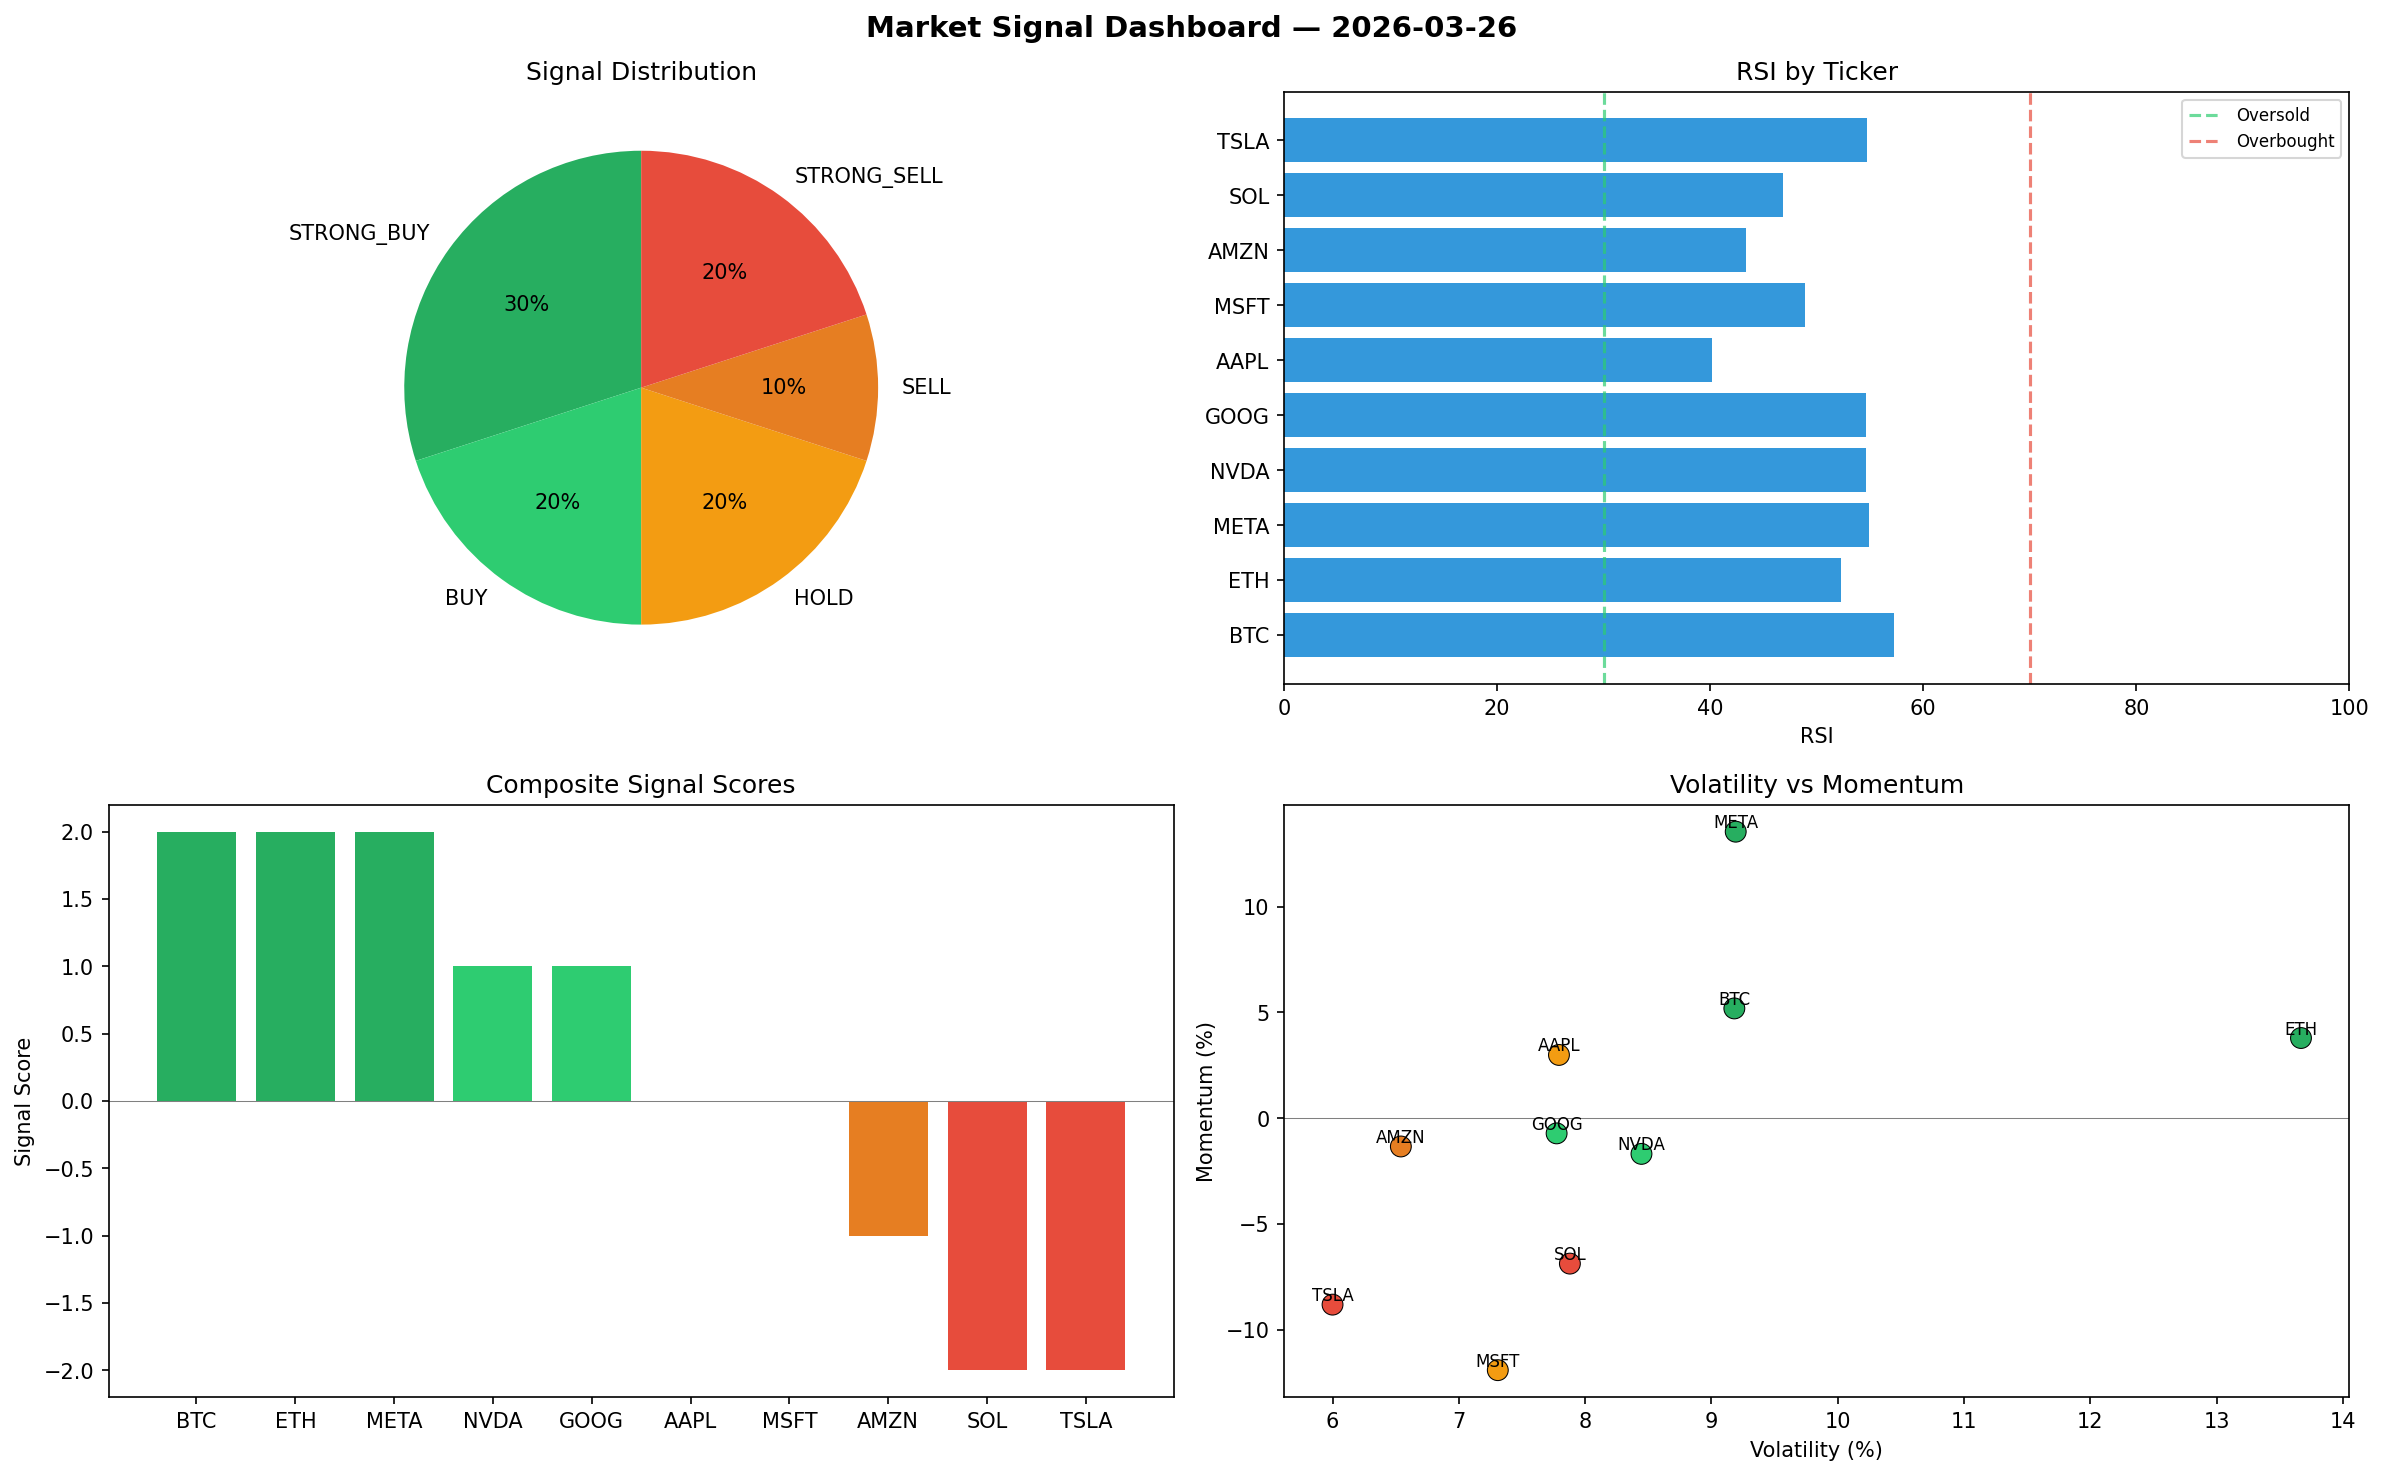
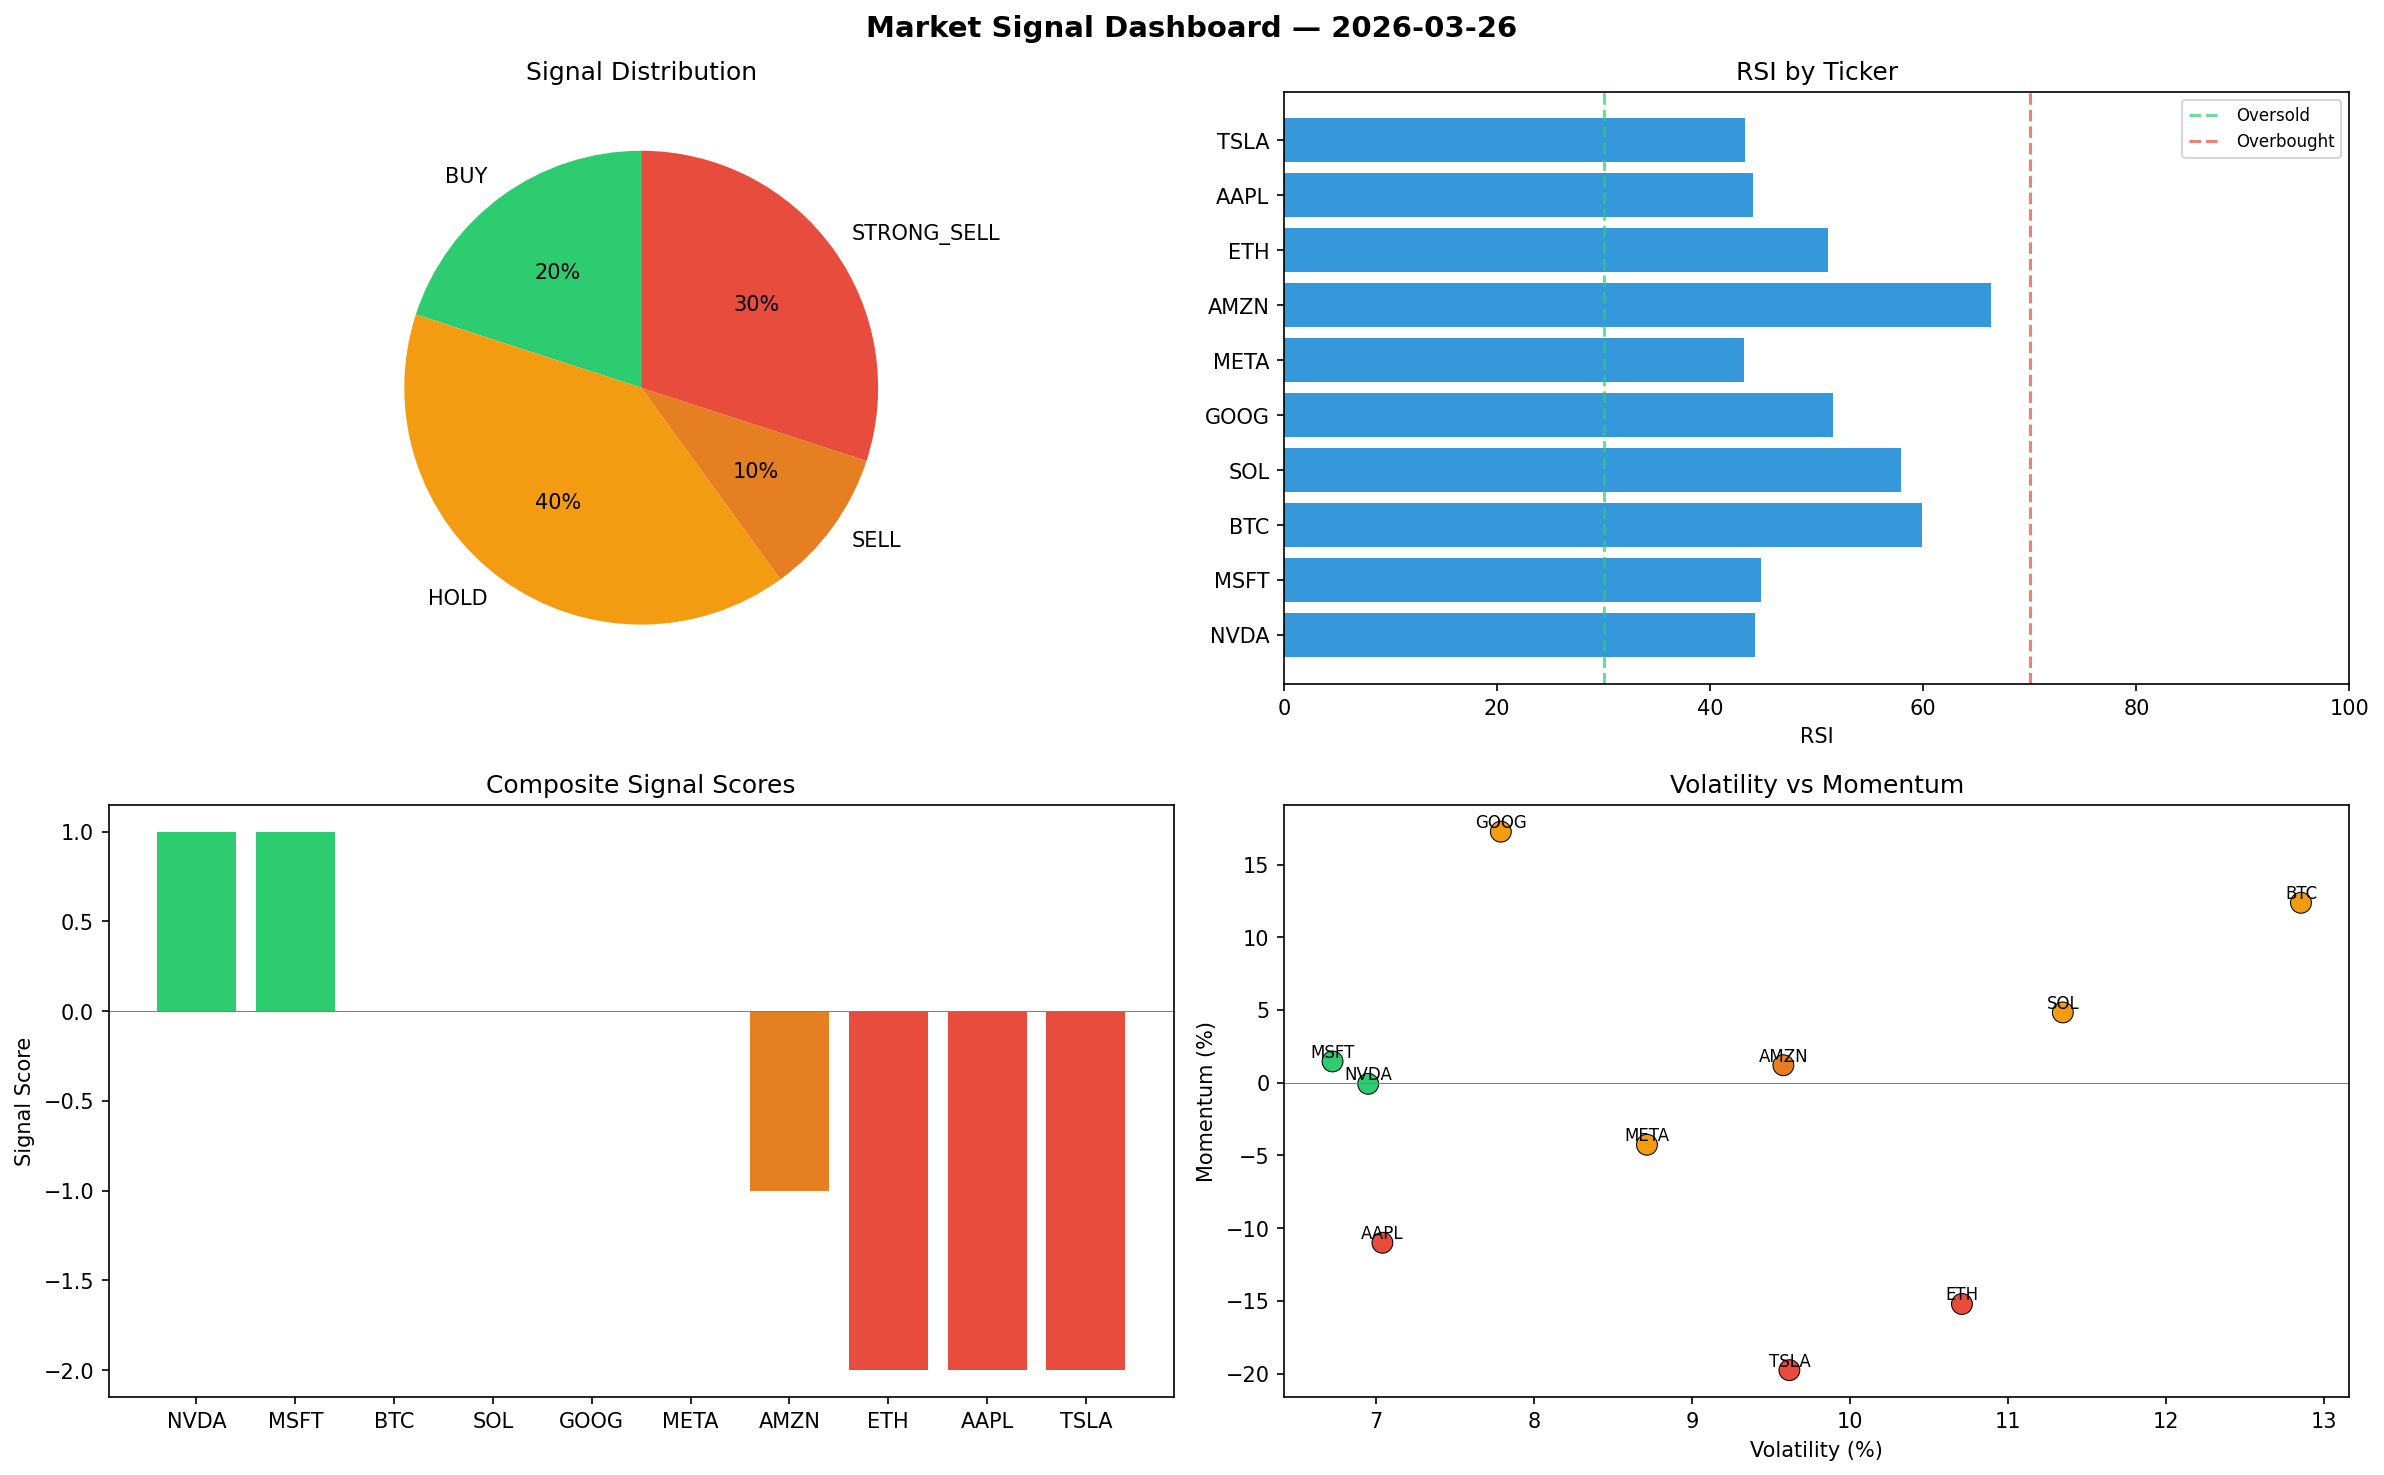
automated-bots: market signals 2026-03-26T09:32

diff --git a/logs/2026-03-26.md b/logs/2026-03-26.md
@@ -1,6 +1,6 @@
 # Market Signal Report — 2026-03-26
 
-**Run ID:** `8983bd73ad` | **Buy:** 5 | **Sell:** 3 | **Hold:** 2
+**Run ID:** `7f2a0ce291` | **Buy:** 2 | **Sell:** 4 | **Hold:** 4
 
 ![Dashboard](2026-03-26_dashboard.png)
 
@@ -8,28 +8,28 @@
 
 | Ticker | Price | Signal | Score | RSI | Momentum | Confidence |
 |--------|-------|--------|-------|-----|----------|------------|
-| BTC | $4225.23 | **STRONG_BUY** | 2 | 57.28 | 0.0519 | 0.5 |
-| ETH | $1106.92 | **STRONG_BUY** | 2 | 52.25 | 0.0379 | 0.5 |
-| META | $901.14 | **STRONG_BUY** | 2 | 54.89 | 0.1355 | 0.5 |
-| NVDA | $2727.88 | **BUY** | 1 | 54.64 | -0.0169 | 0.25 |
-| GOOG | $1998.38 | **BUY** | 1 | 54.64 | -0.0072 | 0.25 |
-| AAPL | $2079.48 | **HOLD** | 0 | 40.2 | 0.0299 | 0.0 |
-| MSFT | $3152.24 | **HOLD** | 0 | 48.94 | -0.1192 | 0.0 |
-| AMZN | $1259.72 | **SELL** | -1 | 43.39 | -0.0134 | 0.25 |
-| SOL | $3961.68 | **STRONG_SELL** | -2 | 46.79 | -0.0688 | 0.5 |
-| TSLA | $1419.24 | **STRONG_SELL** | -2 | 54.76 | -0.0882 | 0.5 |
+| NVDA | $4349.08 | **BUY** | 1 | 44.22 | -0.0008 | 0.25 |
+| MSFT | $790.85 | **BUY** | 1 | 44.8 | 0.0146 | 0.25 |
+| BTC | $3860.22 | **HOLD** | 0 | 59.92 | 0.1237 | 0.0 |
+| SOL | $2678.1 | **HOLD** | 0 | 57.93 | 0.0483 | 0.0 |
+| GOOG | $2376.41 | **HOLD** | 0 | 51.54 | 0.1726 | 0.0 |
+| META | $1785.5 | **HOLD** | 0 | 43.17 | -0.0427 | 0.0 |
+| AMZN | $757.05 | **SELL** | -1 | 66.39 | 0.012 | 0.25 |
+| ETH | $1472.88 | **STRONG_SELL** | -2 | 51.06 | -0.1522 | 0.5 |
+| AAPL | $3279.97 | **STRONG_SELL** | -2 | 44.0 | -0.1101 | 0.5 |
+| TSLA | $4146.6 | **STRONG_SELL** | -2 | 43.25 | -0.1977 | 0.5 |
 
 ## Delta vs Yesterday
 
 | Ticker | Today | Yesterday | Price Change | Signal Changed |
 |--------|-------|-----------|-------------|----------------|
-| BTC | STRONG_BUY | STRONG_BUY | 📉 -9.24% | — |
-| ETH | STRONG_BUY | STRONG_SELL | 📉 -50.66% | ⚠ YES |
-| META | STRONG_BUY | STRONG_BUY | 📉 -63.79% | — |
-| NVDA | BUY | STRONG_SELL | 📉 -42.63% | ⚠ YES |
-| GOOG | BUY | STRONG_SELL | 📈 492.11% | ⚠ YES |
-| AAPL | HOLD | STRONG_SELL | 📈 24.9% | ⚠ YES |
-| MSFT | HOLD | HOLD | 📈 764.48% | — |
-| AMZN | SELL | STRONG_BUY | 📈 97.69% | ⚠ YES |
-| SOL | STRONG_SELL | STRONG_BUY | 📈 219.91% | ⚠ YES |
-| TSLA | STRONG_SELL | STRONG_BUY | 📉 -22.54% | ⚠ YES |
+| NVDA | BUY | STRONG_SELL | 📉 -8.53% | ⚠ YES |
+| MSFT | BUY | HOLD | 📈 116.89% | ⚠ YES |
+| BTC | HOLD | STRONG_BUY | 📉 -17.08% | ⚠ YES |
+| SOL | HOLD | STRONG_BUY | 📈 116.26% | ⚠ YES |
+| GOOG | HOLD | STRONG_SELL | 📈 604.12% | ⚠ YES |
+| META | HOLD | STRONG_BUY | 📉 -28.25% | ⚠ YES |
+| AMZN | SELL | STRONG_BUY | 📈 18.81% | ⚠ YES |
+| ETH | STRONG_SELL | STRONG_SELL | 📉 -34.34% | — |
+| AAPL | STRONG_SELL | STRONG_SELL | 📈 97.01% | — |
+| TSLA | STRONG_SELL | STRONG_BUY | 📈 126.31% | ⚠ YES |
